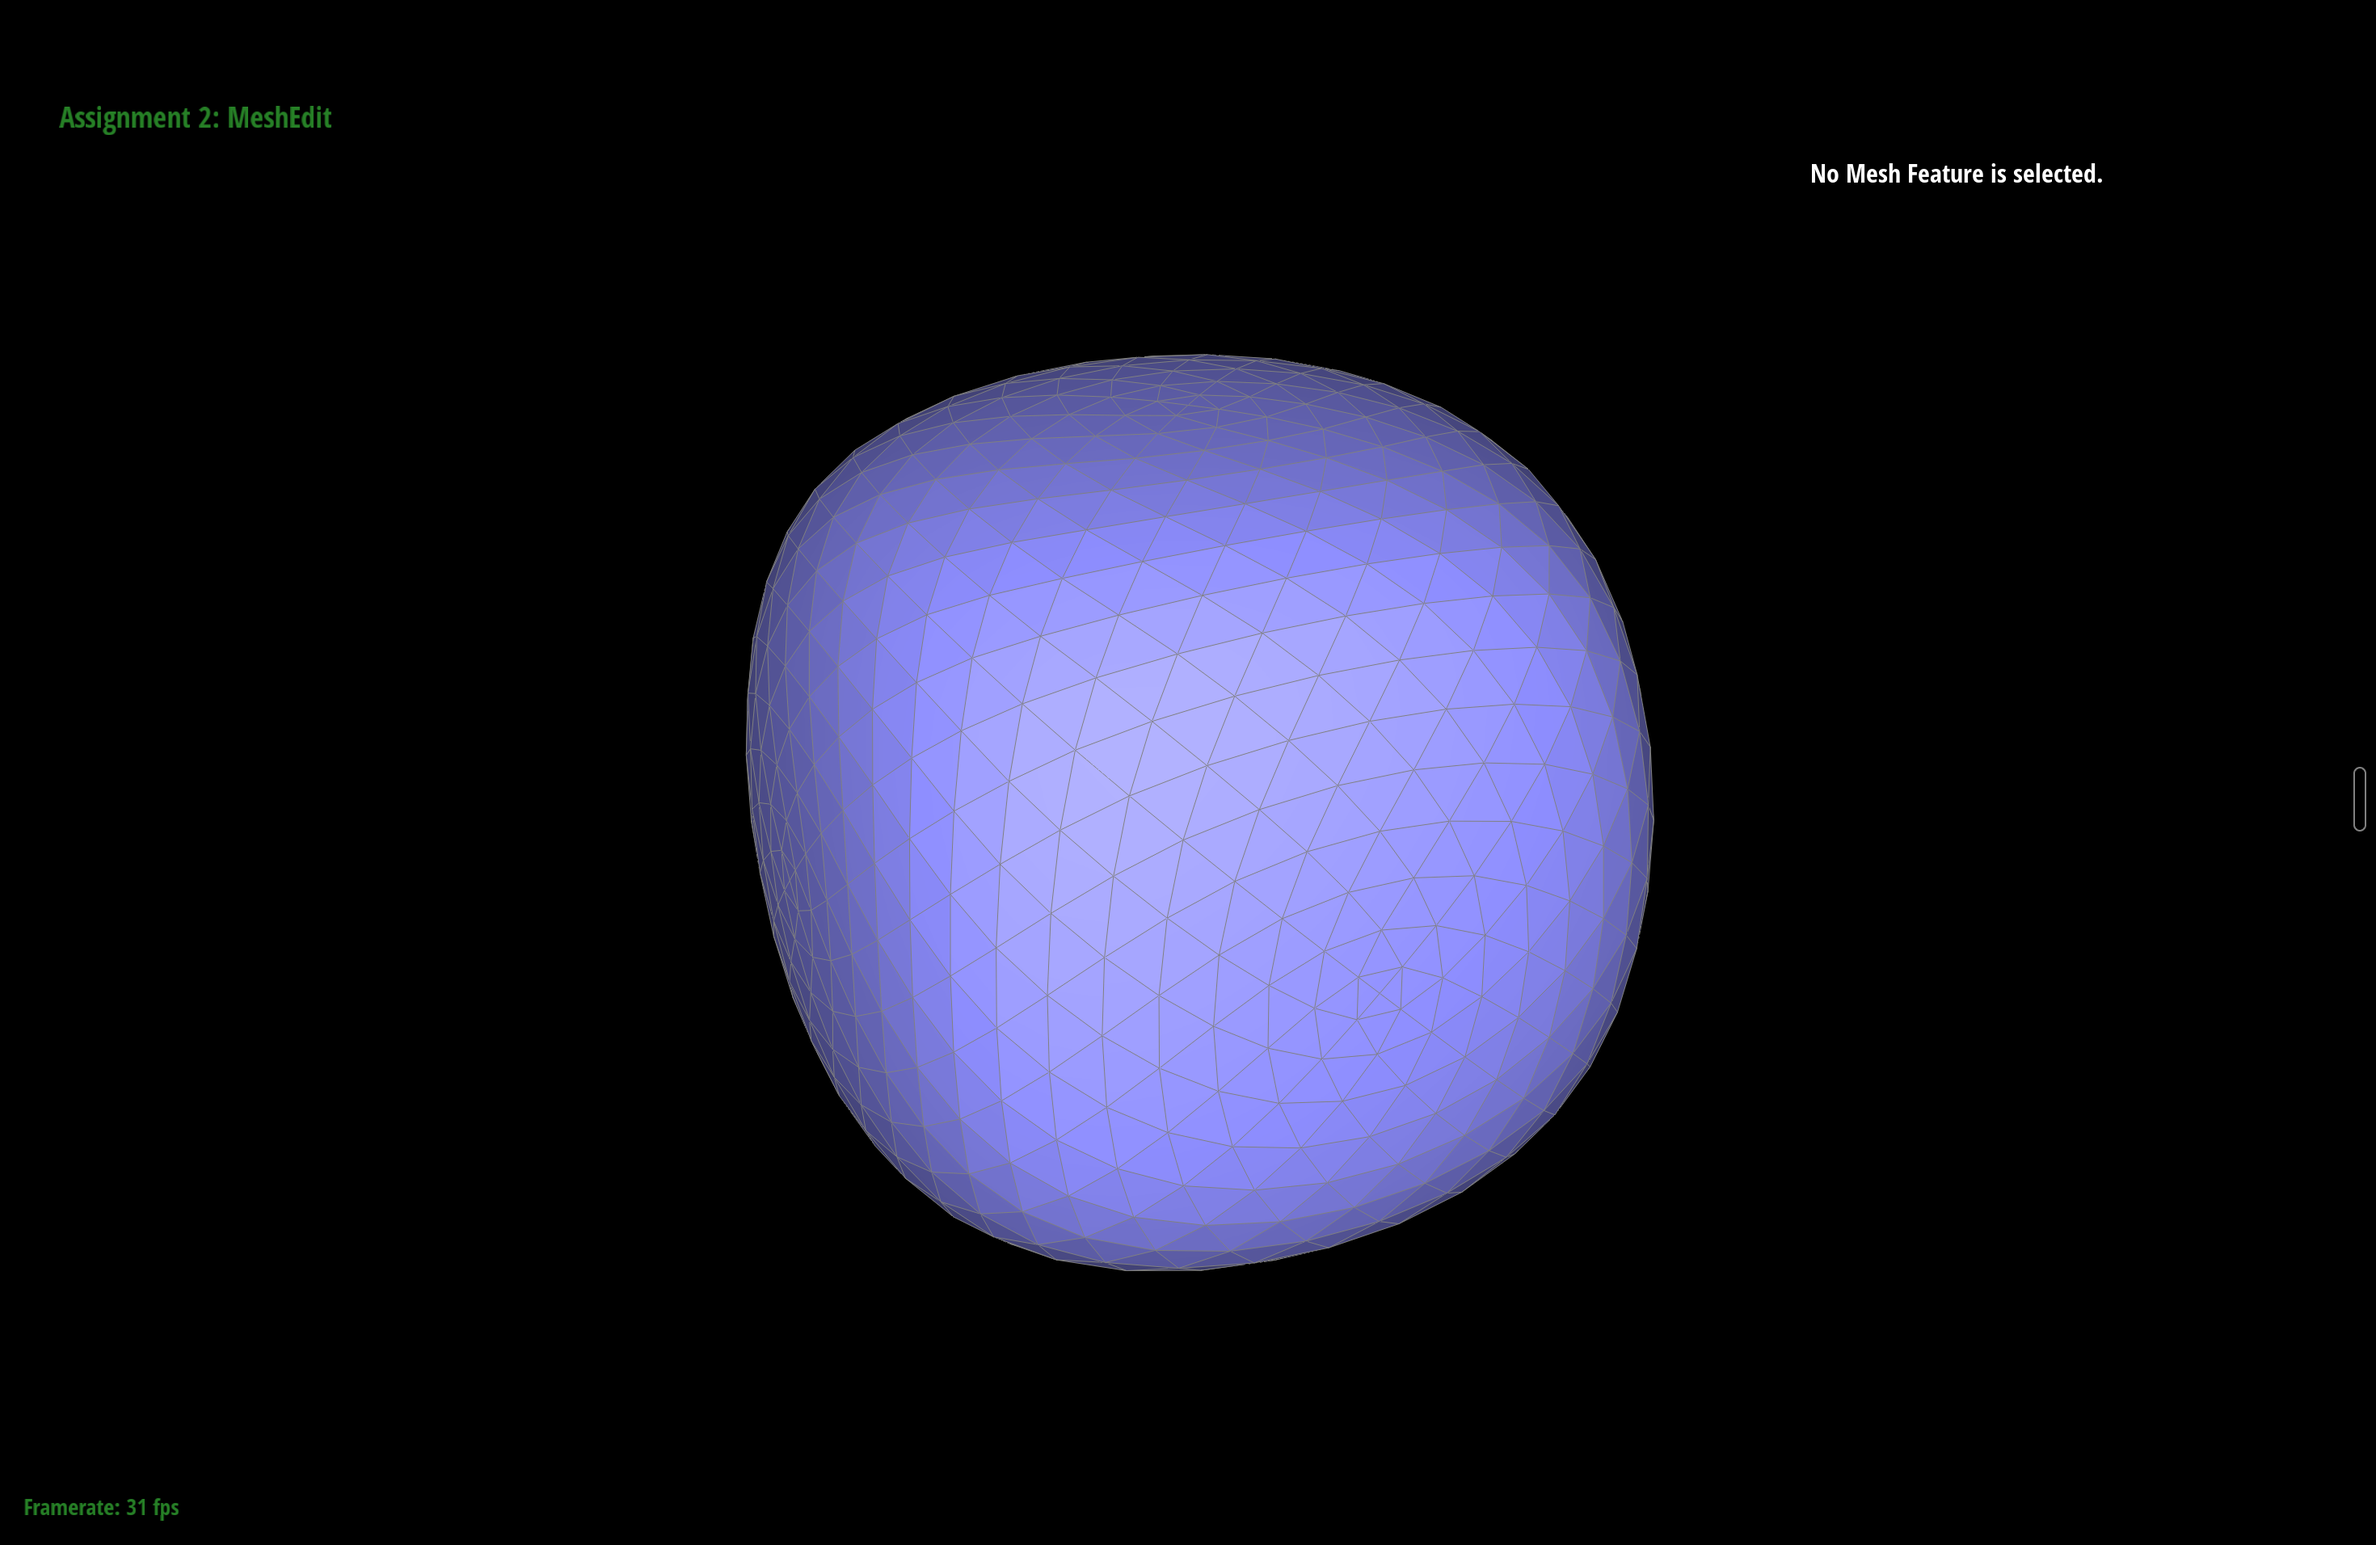
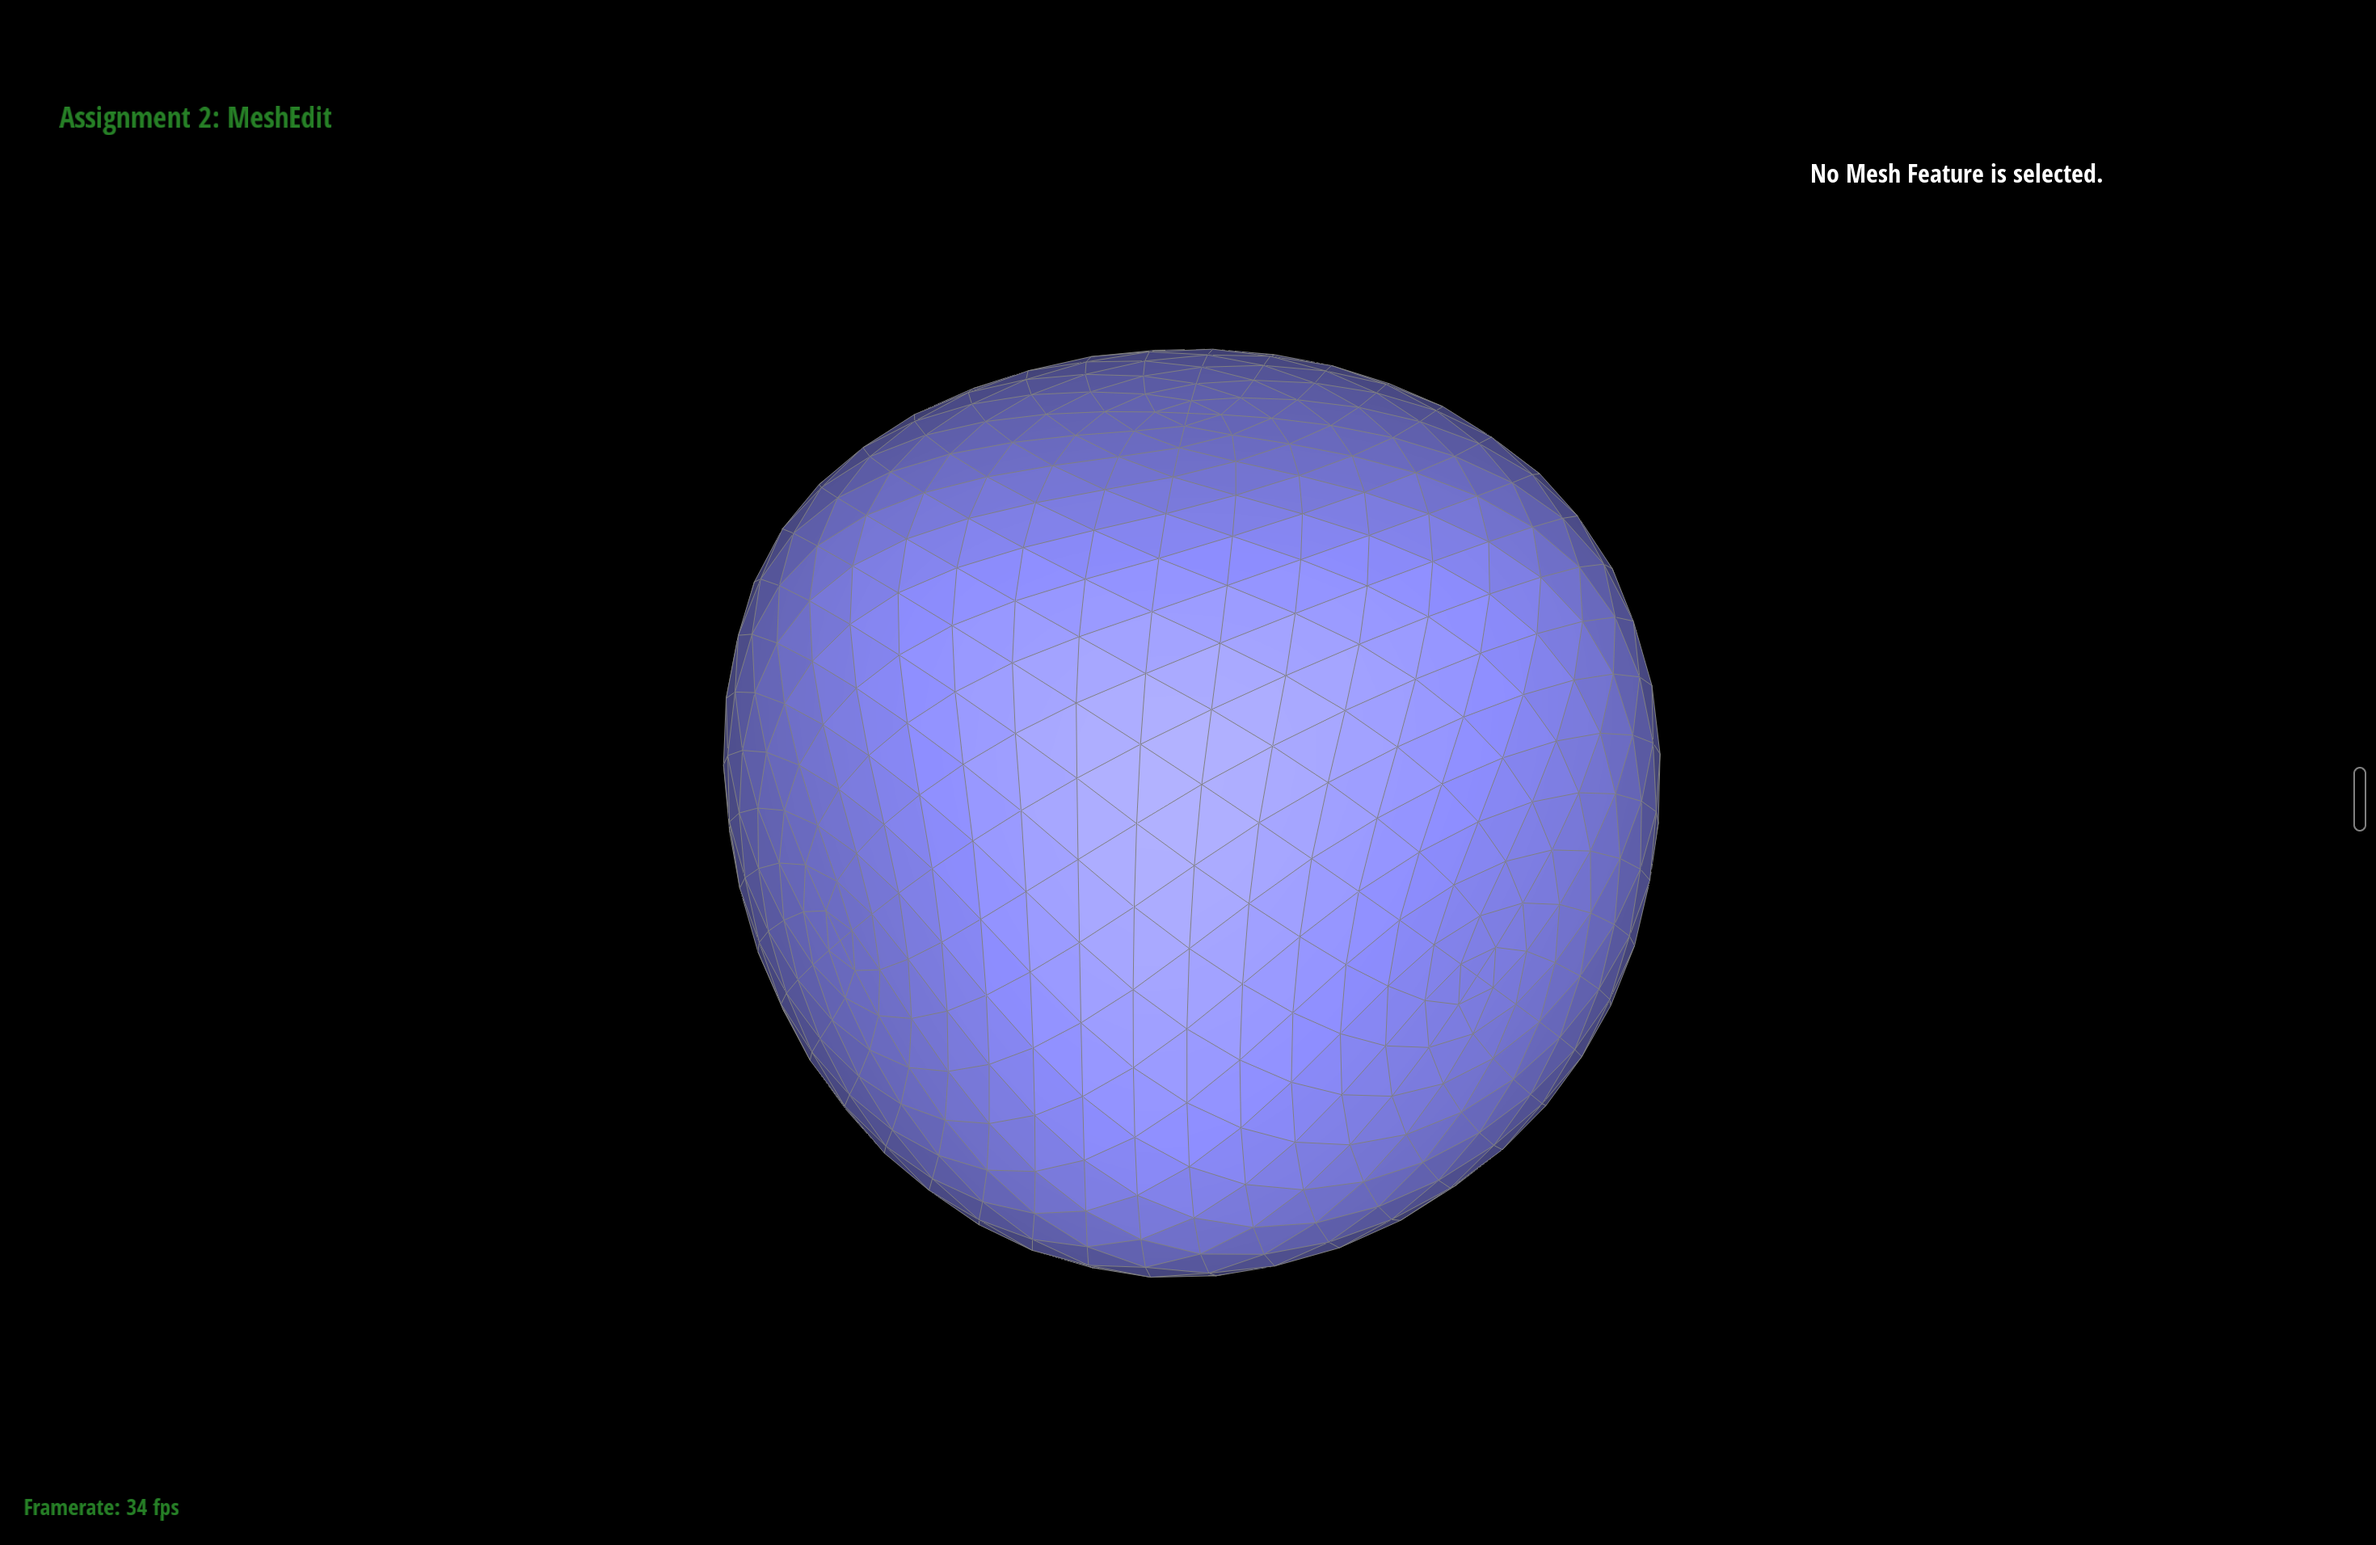
Address rubric feedback: Part 1 curves with C on, fuller Part 6 cube section (sequence, degree explanation, pre-processing), minor text fixes

Changed region(s): [[0.2786, 0.216, 0.7119, 0.8332], [0.4643, 0.4629, 0.4952, 0.4937]]

diff --git a/index.html b/index.html
@@ -189,7 +189,7 @@
 				<figure><img src="images/part1_level2.png"/><figcaption>Level 2: 4 points.</figcaption></figure>
 				<figure><img src="images/part1_level3.png"/><figcaption>Level 3: 3 points.</figcaption></figure>
 				<figure><img src="images/part1_level4.png"/><figcaption>Level 4: 2 points.</figcaption></figure>
-				<figure><img src="images/part1_level5.png"/><figcaption>Level 5: the final point on the curve (toggle <b>C</b> for the full curve).</figcaption></figure>
+				<figure><img src="images/part1_level5.png"/><figcaption>Level 5: the single evaluated point, shown with the full Bezier curve drawn (<b>C</b>).</figcaption></figure>
 			</div>
 			<p>
 			Here's a different version of the same curve. I dragged the control points around and
@@ -198,7 +198,7 @@
 			</p>
 			<figure>
 				<img src="images/part1_moved.png"/>
-				<figcaption>The same curve after moving control points and changing \(t\) via scroll.</figcaption>
+				<figcaption>The same curve after moving control points and changing \(t\), with the full curve drawn (<b>C</b>).</figcaption>
 			</figure>
 
 			<h3>Part 2: Bezier surfaces with separable 1D de Casteljau</h3>
@@ -297,9 +297,9 @@
 			elements and wired everything with <code>setNeighbors</code>. I reused the two original
 			halfedges on the split edge (as \(v_0 \to m\) and \(v_1 \to m\)) and created the other six
 			from scratch, which kept the allocation count honest and made it easier to reason about. The
-			spec says the new vertex's halfedge should run <i>along</i> the edge that was split, not along
-			one of the new cross edges, so I point <code>m-&gt;halfedge()</code> at the halfedge on the
-			original edge. I also set the <code>isNew</code> flags here. The two edges along the original
+			code comments say the new vertex's halfedge should run <i>along</i> the edge that was split,
+			not along one of the new cross edges, so I point <code>m-&gt;halfedge()</code> at the halfedge
+			on the original edge. I also set the <code>isNew</code> flags here. The two edges along the original
 			split line are not new, and the two that cut across the old triangles are. Part 6 depends on
 			this flag.
 			</p>
@@ -357,29 +357,64 @@
 			</ol>
 			<p>
 			Some things I noticed while playing with it. Sharp corners and edges round off and lose their
-			crispness as you subdivide. The cube is the clearest example. It melts into a rounded blob
-			because the smoothing rule has no idea an edge was supposed to stay sharp. You can reduce this
-			by splitting edges near the feature before subdividing. That raises the vertex density there,
-			so the limit surface stays closer to the original crease. The cube also looks lopsided at
-			first because its triangulation is asymmetric (the two triangles on each face aren't
-			symmetric). If you flip and split edges to make the mesh symmetric before subdividing, it
-			converges to a symmetric rounded cube.
+			crispness as you subdivide, because the smoothing rule has no idea an edge was supposed to
+			stay sharp. The cow below shows the general effect: each round quadruples the triangle count
+			and the surface relaxes toward something smooth.
 			</p>
 			<div class="grid">
-				<figure><img src="images/part6_level0.png"/><figcaption>Original mesh.</figcaption></figure>
+				<figure><img src="images/part6_level0.png"/><figcaption>Original cow.</figcaption></figure>
 				<figure><img src="images/part6_level1.png"/><figcaption>After one round of Loop subdivision (<b>L</b>).</figcaption></figure>
 				<figure><img src="images/part6_level2.png"/><figcaption>After two rounds.</figcaption></figure>
 				<figure><img src="images/part6_level3.png"/><figcaption>After three rounds. The sharp features have rounded off.</figcaption></figure>
 			</div>
+
+			<h4>Why the cube subdivides asymmetrically</h4>
 			<p>
-			To show the effect of preprocessing, the cube on the left is subdivided directly, and the one
-			on the right was split and flipped first to make it symmetric. The right one comes out
-			noticeably more symmetric.
+			Loading <code>cube.dae</code> and pressing <b>L</b> a few times gives a lopsided blob instead
+			of a symmetric rounded cube. The cause is the triangulation. Each square face of the cube is
+			cut by a single diagonal, and those diagonals leave the eight corners with uneven vertex
+			degrees: the two endpoints of each face diagonal pick up an extra edge, so some corners end up
+			with degree 6 while others stay at degree 3. Loop's vertex-update weight \(u = \frac{3}{8n}\)
+			depends on the degree \(n\), so corners of different degree are pulled toward their neighbors
+			by different amounts. That uneven pull is exactly what throws off the symmetry, and it only
+			gets more pronounced with each round.
 			</p>
 			<div class="grid">
-				<figure><img src="images/part6_cube_asym.png"/><figcaption>Cube subdivided as is (asymmetric result).</figcaption></figure>
-				<figure><img src="images/part6_cube_sym.png"/><figcaption>Cube subdivided after preprocessing (symmetric result).</figcaption></figure>
+				<figure><img src="images/part6_cube0.png"/><figcaption>Original cube.dae.</figcaption></figure>
+				<figure><img src="images/part6_cube1.png"/><figcaption>After 1 round (no preprocessing).</figcaption></figure>
+				<figure><img src="images/part6_cube2.png"/><figcaption>After 2 rounds.</figcaption></figure>
+				<figure><img src="images/part6_cube3.png"/><figcaption>After 3 rounds. The result is visibly lopsided.</figcaption></figure>
 			</div>
+
+			<h4>Fixing it with pre-processing</h4>
+			<p>
+			To make the cube subdivide symmetrically I split the diagonal edge of every face before
+			running any Loop subdivision. Splitting a face's diagonal drops a new vertex at the center of
+			that face and turns its two triangles into four, with the center vertex joined to all four
+			corners. After doing this to all six faces, every original corner touches three cube edges
+			plus three face-center edges, so all eight corners now have the same degree (6) and all six
+			face centers have the same degree (4). With the degrees made uniform and the configuration
+			identical at every corner, Loop pulls every vertex by the same weight, and the cube converges
+			to a symmetric rounded shape. Both cubes below are shown from the same camera after the same
+			three rounds of subdivision.
+			</p>
+			<div class="grid">
+				<figure><img src="images/part6_cube3.png"/><figcaption>No preprocessing: 3 rounds, asymmetric.</figcaption></figure>
+				<figure><img src="images/part6_cube_sym.png"/><figcaption>Face diagonals pre-split: 3 rounds, symmetric.</figcaption></figure>
+			</div>
+
+			<h4>Can pre-splitting keep sharp features?</h4>
+			<p>
+			Up to a point, yes. The reason sharp corners and edges wash out is that Loop only has a few
+			samples near them, so each averaging step pulls those few points well inside the original
+			crease. Splitting the edges near a feature before subdividing packs extra vertices right
+			there, so Loop has more local geometry to work with and the surface stays closer to the
+			original around that feature while the sparsely-sampled regions round off freely. In practice
+			the effect is gradual: a light pre-split only slows the rounding a little, and you need a fair
+			amount of extra density concentrated at the feature before a crease visibly holds its shape.
+			It's really a trade of mesh size for sharpness, which is why dedicated sharp-crease schemes
+			exist rather than relying on plain Loop.
+			</p>
 
 		</div>
 	</body>
